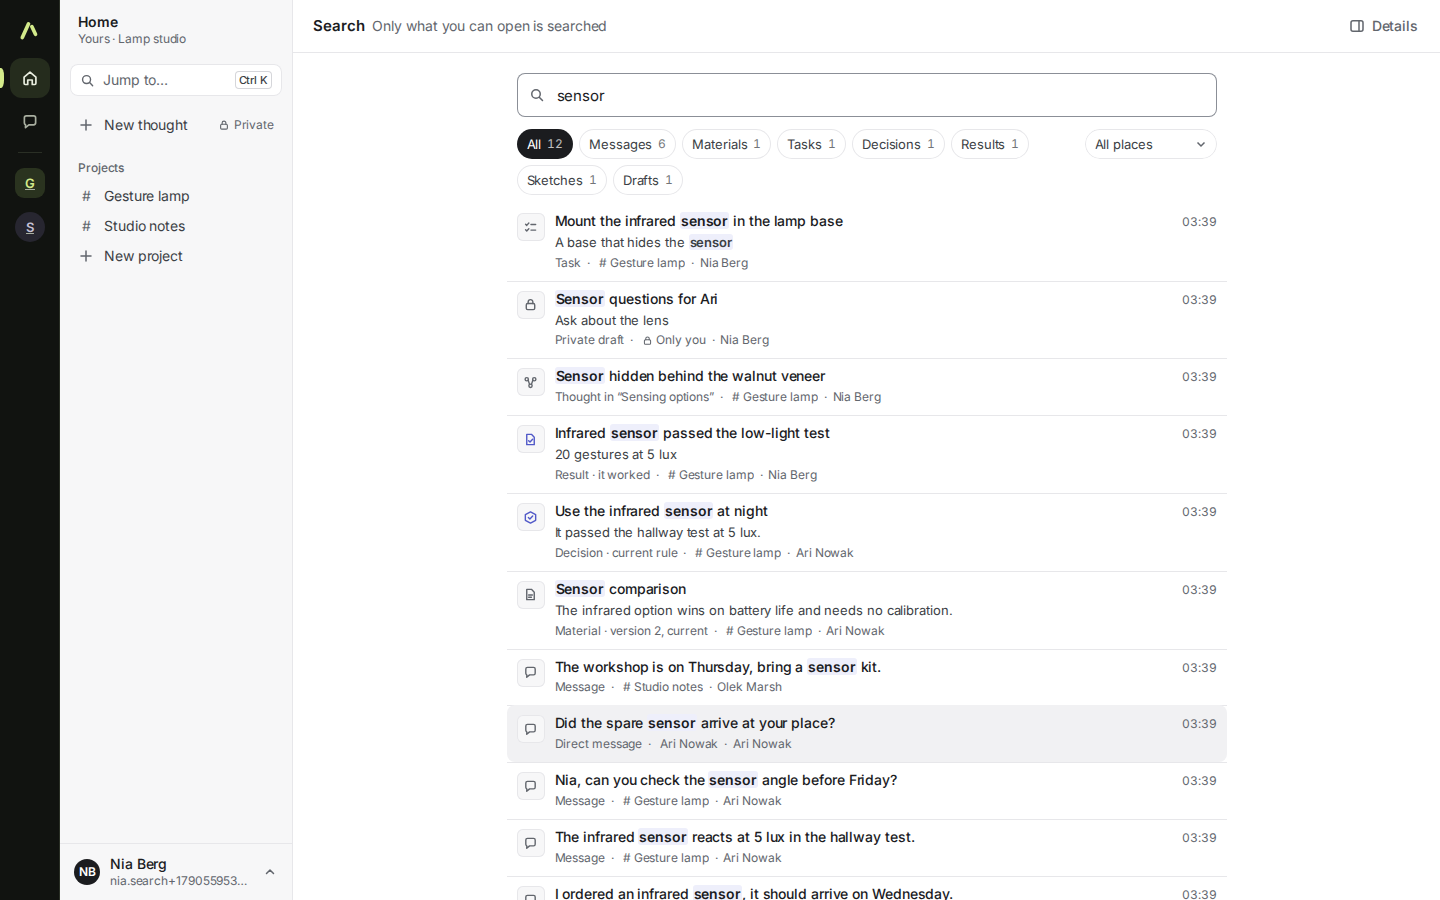
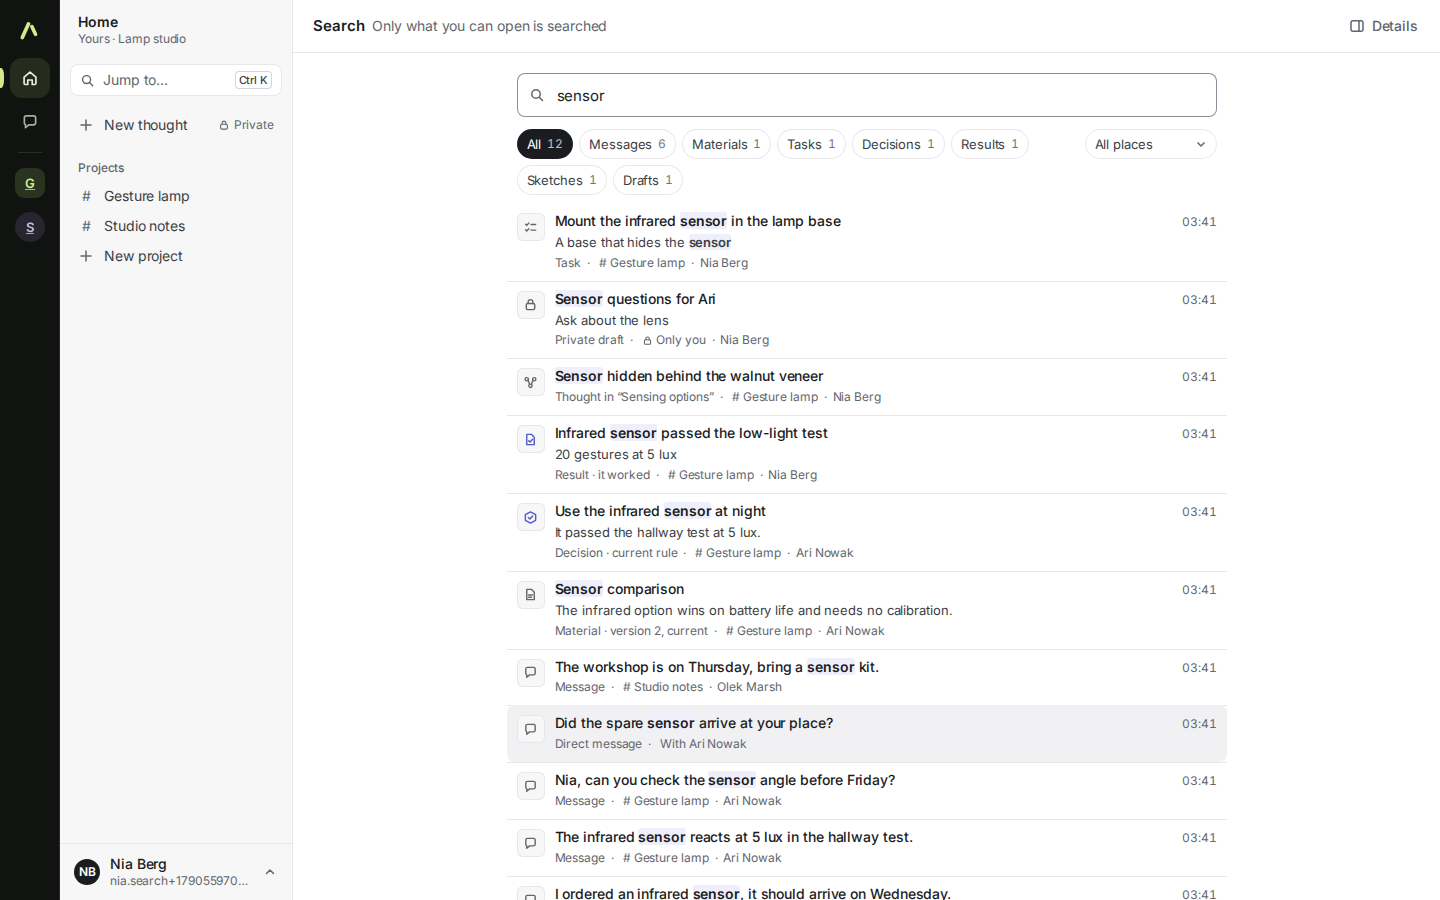
wip: search row polish (#114)

diff --git a/apps/web/src/search/ResultRow.tsx b/apps/web/src/search/ResultRow.tsx
@@ -27,7 +27,7 @@ export function Highlighted({ parts }: { parts: SearchText }) {
 export function placeText(place: SearchPlace) {
   switch (place.type) {
     case 'project': return `# ${place.name}`;
-    case 'dm': return place.name;
+    case 'dm': return `With ${place.name}`;
     case 'workspace': return place.name;
     default: return 'Only you';
   }
@@ -35,7 +35,9 @@ export function placeText(place: SearchPlace) {
 
 /** The body of a row; the caller supplies the element (a link on the page, an option in Jump to…). */
 export function ResultBody({ result }: { result: SearchResult }) {
-  const meta = [result.label, placeText(result.place), result.kind === 'person' ? null : result.author].filter(Boolean);
+  // In a DM with the author, "With Ari · Ari" would say the same thing twice.
+  const author = result.kind === 'person' || (result.place.type === 'dm' && result.place.name === result.author) ? null : result.author;
+  const meta = [result.label, placeText(result.place), author].filter(Boolean);
   return (
     <>
       <span className={`sr__ic sr__ic--${result.kind}`} aria-hidden="true"><Icon name={ICONS[result.kind]} size={15} /></span>
@@ -48,6 +50,7 @@ export function ResultBody({ result }: { result: SearchResult }) {
               {index === 1 && result.place.type === 'private' ? <Icon name="lock" size={11} /> : null}{item}
             </span>
           ))}
+          {result.kind === 'person' ? null : <time className="sr__metatime" dateTime={result.at}>{when(result.at)}</time>}
         </span>
       </span>
       {result.kind === 'person' ? null : <time className="sr__when" dateTime={result.at}>{when(result.at)}</time>}

diff --git a/apps/web/src/search/search.css b/apps/web/src/search/search.css
@@ -23,10 +23,12 @@
   font-size: var(--fs-sm); line-height: 1.45; color: var(--text-2);
   display: -webkit-box; -webkit-line-clamp: 2; -webkit-box-orient: vertical; overflow: hidden; overflow-wrap: anywhere;
 }
-.sr__hit { background: var(--accent-soft); color: inherit; font-weight: 600; border-radius: 3px; padding: 0 1px; box-decoration-break: clone; -webkit-box-decoration-break: clone; }
+.sr__hit { background: var(--accent-soft); color: inherit; font-weight: 600; border-radius: 3px; padding: 0; box-decoration-break: clone; -webkit-box-decoration-break: clone; }
 .sr__meta { display: flex; flex-wrap: wrap; align-items: center; column-gap: 6px; font-size: var(--fs-xs); line-height: 1.5; color: var(--text-3); }
 .sr__meta > span + span::before { content: "·"; margin-right: 6px; }
 .sr__place { display: inline-flex; align-items: center; gap: 3px; max-width: 100%; overflow: hidden; text-overflow: ellipsis; white-space: nowrap; }
+/* The time sits at the right on wide screens and at the end of the meta line on the phone. */
+.sr__metatime { display: none; }
 .sr__when { font-size: var(--fs-xs); line-height: 20px; color: var(--text-3); white-space: nowrap; font-variant-numeric: tabular-nums; }
 
 /* ---------- Jump to… ---------- */
@@ -116,5 +118,7 @@
   .search__chip { flex: none; }
   .search__place select { max-width: 100%; }
   .sr { grid-template-columns: 28px minmax(0, 1fr); }
-  .sr__when { grid-column: 2; grid-row: 2; line-height: 1.4; }
+  .sr__when { display: none; }
+  .sr__metatime { display: inline; }
+  .sr__meta > .sr__metatime::before { content: "·"; margin-right: 6px; }
 }
